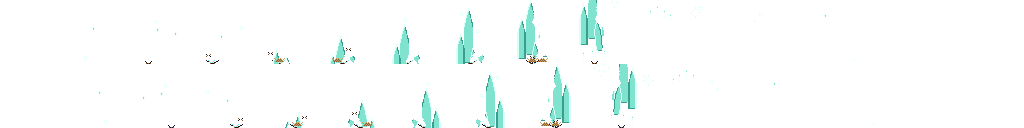
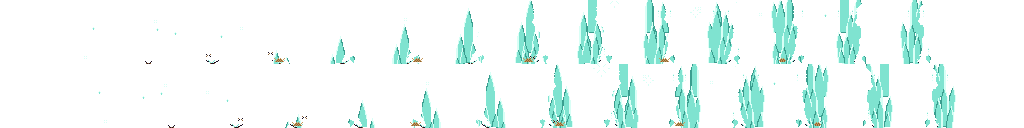
Sandstorm v3 approved; Stalactite Rain v3.1: a stream of spears rises behind the caster
Christopher 2026-11-05 22:29: Sandstorm approved; Stalactite Rain should show a stream of
stalactites rising from behind the caster, not just a few. Eighteen spears now grind up one
after another from frame 4 to 12, each rising tip first, standing a frame, then shooting up.

Claude-Session: https://claude.ai/code/session_01Szh5txHpTWtb3YgvZLybLg

diff --git a/tools/astro.py b/tools/astro.py
@@ -6237,15 +6237,38 @@ _SRA = {1: [('cryst', 'head', -9, 12), ('gemSpark', 'feet', -14, -6)],
         10: [('spearStreak', 'feet', -12, -50), ('spearStreak', 'feet', -19, -54), ('spearStreak', 'feet', -26, -50), ('spearStreak', 'feet', -6, -46), ('srFlashS', 'hand', 2, -2), ('gemSpark', 'hand', 6, -6)],
         11: [('gemSpark', 'hand', 2, -3), ('glit', 'hand', -4, 4)], 12: [('cryst', 'hand', 3, -2)],
         13: [('gemSpark', 'feet', -14, -3, {'alpha': {'c': 140, 'W': 140}})]}
-CLIPS['stalactiteRain'] = ('Stalactite Rain', 10, _SR2[2].replace('Stalactite Rain (Capricorn', 'Stalactite Rain v3 (Christopher 2026-11-05 22:11: the ultimate treatment: four spears, a giant among them, rise behind the caster through a wide glowing split, its aura blazes to full, a crystal-white flash bursts off the palms as the spears are hurled up; the next round they rain down over the whole radius-3 zone, see extra.rain) (Capricorn'),
+# v3.1 (Christopher 2026-11-05 22:29: a stream of stalactites rising from behind the caster, not just a few): spears keep
+# grinding up out of the split one after another from frame 4 to 12, each rising tip first over 3 frames, standing a frame, then
+# tearing free and shooting up out of the cell (lift 10, then 30 px with streaks), so a steady stream climbs behind the caster
+_SRS = [(4, -18, 'spearXL'), (4, -6, 'spearUpS'), (5, -27, 'spearUp'), (5, -12, 'spearUpS'), (6, -22, 'spearUpS'), (6, -2, 'spearUpS'),
+        (7, -15, 'spearUp'), (7, -29, 'spearUpS'), (8, -9, 'spearUp'), (8, -24, 'spearXL'), (9, -4, 'spearUpS'), (9, -18, 'spearUp'),
+        (10, -28, 'spearUpS'), (10, -12, 'spearXL'), (11, -21, 'spearUp'), (11, -6, 'spearUpS'), (12, -26, 'spearUpS'), (12, -15, 'spearUp')]
+def _srstream(k):
+    out = []
+    for b, x, n in _SRS:
+        a = k - b
+        if 0 <= a < 3: out.append(_sp(n, x, (0.25, 0.5, 0.75)[a]))
+        elif a == 3: out.append(_sp(n, x))
+        elif a == 4: out.append(_sp(n, x, lift=10))
+        elif a == 5: out += [_sp(n, x, lift=30), ('spearStreak', 'feet', x, -12)]
+        elif a == 6: out.append(('spearStreak', 'feet', x, -50))
+    return out
+_SRKEEP = {1: _SRA[1], 2: _SRA[2], 3: _SRA[3]}
+_SRA = {**_SRKEEP, **{k: [('crack2' if k < 13 else 'crack1', 'feet', -16, -1), *([('crackGlowW', 'feet', -16, -2)] if k < 13 else []), *_srstream(k)] for k in range(4, 15)}}
+for k_, extra_ in ((4, [('rocks', 'feet', -24, -10), ('dust2', 'feet', -16, -3)]), (6, [('dust2', 'feet', -6, -3), ('gemSpark', 'feet', -18, -44)]), (8, [('rocks', 'feet', -16, -6), ('dust2', 'feet', -20, -3)]),
+                   (9, [('srFlash', 'hand', 0, -4)]), (10, [('srFlashS', 'hand', 2, -2), ('gemSpark', 'hand', 6, -6), ('dust2', 'feet', -12, -3)]), (11, [('gemSpark', 'hand', 2, -3)]),
+                   (12, [('cryst', 'hand', 3, -2), ('dust1', 'feet', -22, -3)]), (14, [('gemSpark', 'feet', -14, -3, {'alpha': {'c': 140, 'W': 140}})])):
+    _SRA[k_] = _SRA[k_] + extra_
+CLIPS['stalactiteRain'] = ('Stalactite Rain', 10, _SR2[2].replace('Stalactite Rain (Capricorn', 'Stalactite Rain v3.1 (Christopher 2026-11-05 22:11: the ultimate treatment; 22:29: a stream of stalactites: from frame 4 to 12 spear after spear, giants among them, grinds up tip first behind the caster and shoots into the sky, eighteen in all, rising through a wide glowing split, its aura blazes to full, a crystal-white flash bursts off the palms as the spears are hurled up; the next round they rain down over the whole radius-3 zone, see extra.rain) (Capricorn'),
   _SR2[3], _SR2[4], [0, 1, 2, 3, 3, 3, 3, 3, 3, 3, 3, 2, 2, 1, 0, 0],
   {**_SR2[6], 'anchored': _SRA,
    'extra': {**_SR2[6]['extra'],
              'rain': {'rule': 'Stalactite Rain v3 (ultimate, charge; resolves the round after the cast like Meteor): on the eruption round the caster replays frames 9-12 (the hurl); then the testbed rains crystal spears out of the sky over every hex within ultimateAoeRadius (3) of the aimed hex: each hex tinted crystal teal (alpha 0.25, deep teal rim) for the rest of the volley; spears fall at a slant from the caster\'s side (spearFall patterns, a short teal streak behind each), one or two per hex, staggered over ringFrames by distance from the centre (centre first, ring 3 last), each stabbing into the floor with a dust and grit burst and a gemSpark, standing embedded a beat, then cracking and shattering into rubble; every fighter inside plays stalactiteImpaled from the moment the first spear lands on its hex. Reference preview: hex-sprites/tools/astro_rain.py', 'radius': 3, 'centre': 'aimed hex', 'spearsPerHex': [1, 2], 'colors': ['#d9fff6', '#7fe3d0', '#3a9e8f', '#1d5c52']}}})
 
 # v3 ultimate-treatment candidates (Christopher 2026-11-05 22:09-22:11): the v2 approvals stay on record until he rules on v3
-for k_, v_ in (('rootSanctuary', 'v3 ultimate treatment'), ('sandstorm', 'v3 ultimate treatment'), ('stalactiteRain', 'v3 ultimate treatment')):
+for k_, v_ in (('rootSanctuary', 'v3 ultimate treatment'), ('stalactiteRain', 'v3 ultimate treatment')):
     APPROVED.pop(k_, None)
+APPROVED['sandstorm'] = 'E/W approved by user 2026-11-05 22:29 (v3 ultimate treatment: 16 frames, towering eyeXL tornado, arms flung wide with a sand flash on frame 10, storm races out over radius 2 via extra.zone ringFrames; W mirrors E); S/N to author'
 
 def spec(state):
     U.CLIPS[state] = CLIPS[state]
